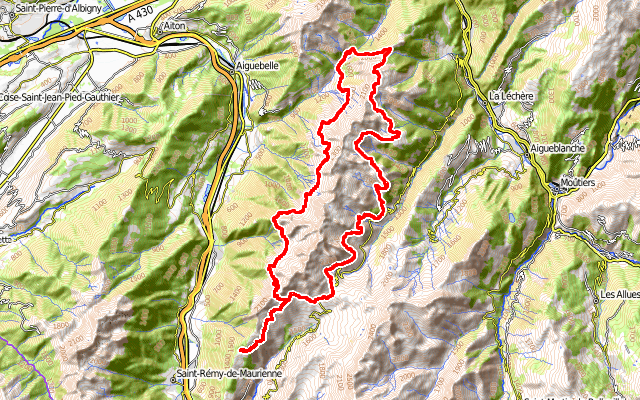
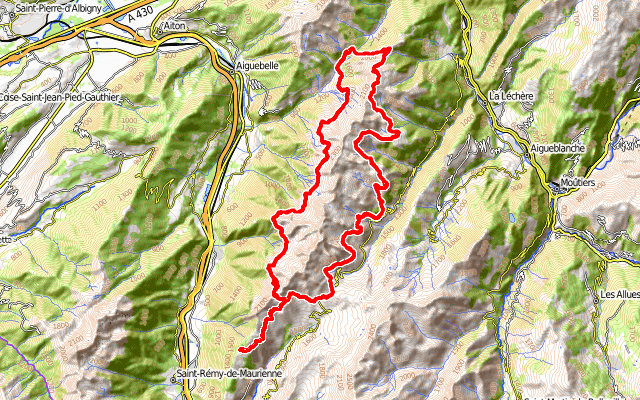
Increasing Quality rendering

diff --git a/src/com/doubotis/mappicturegenerator/MapPicture.java b/src/com/doubotis/mappicturegenerator/MapPicture.java
@@ -132,6 +132,9 @@ public class MapPicture {
         Graphics2D graphics = mImage.createGraphics();
         graphics.setRenderingHint(RenderingHints.KEY_ANTIALIASING, RenderingHints.VALUE_ANTIALIAS_ON);
         graphics.setRenderingHint(RenderingHints.KEY_TEXT_ANTIALIASING, RenderingHints.VALUE_TEXT_ANTIALIAS_ON);
+        graphics.setRenderingHint(RenderingHints.KEY_COLOR_RENDERING, RenderingHints.VALUE_COLOR_RENDER_QUALITY);
+        graphics.setRenderingHint(RenderingHints.KEY_RENDERING, RenderingHints.VALUE_RENDER_QUALITY);
+        graphics.setRenderingHint(RenderingHints.KEY_STROKE_CONTROL, RenderingHints.VALUE_STROKE_PURE);
         
         graphics.setBackground(Color.WHITE);
         graphics.setColor(Color.WHITE);
